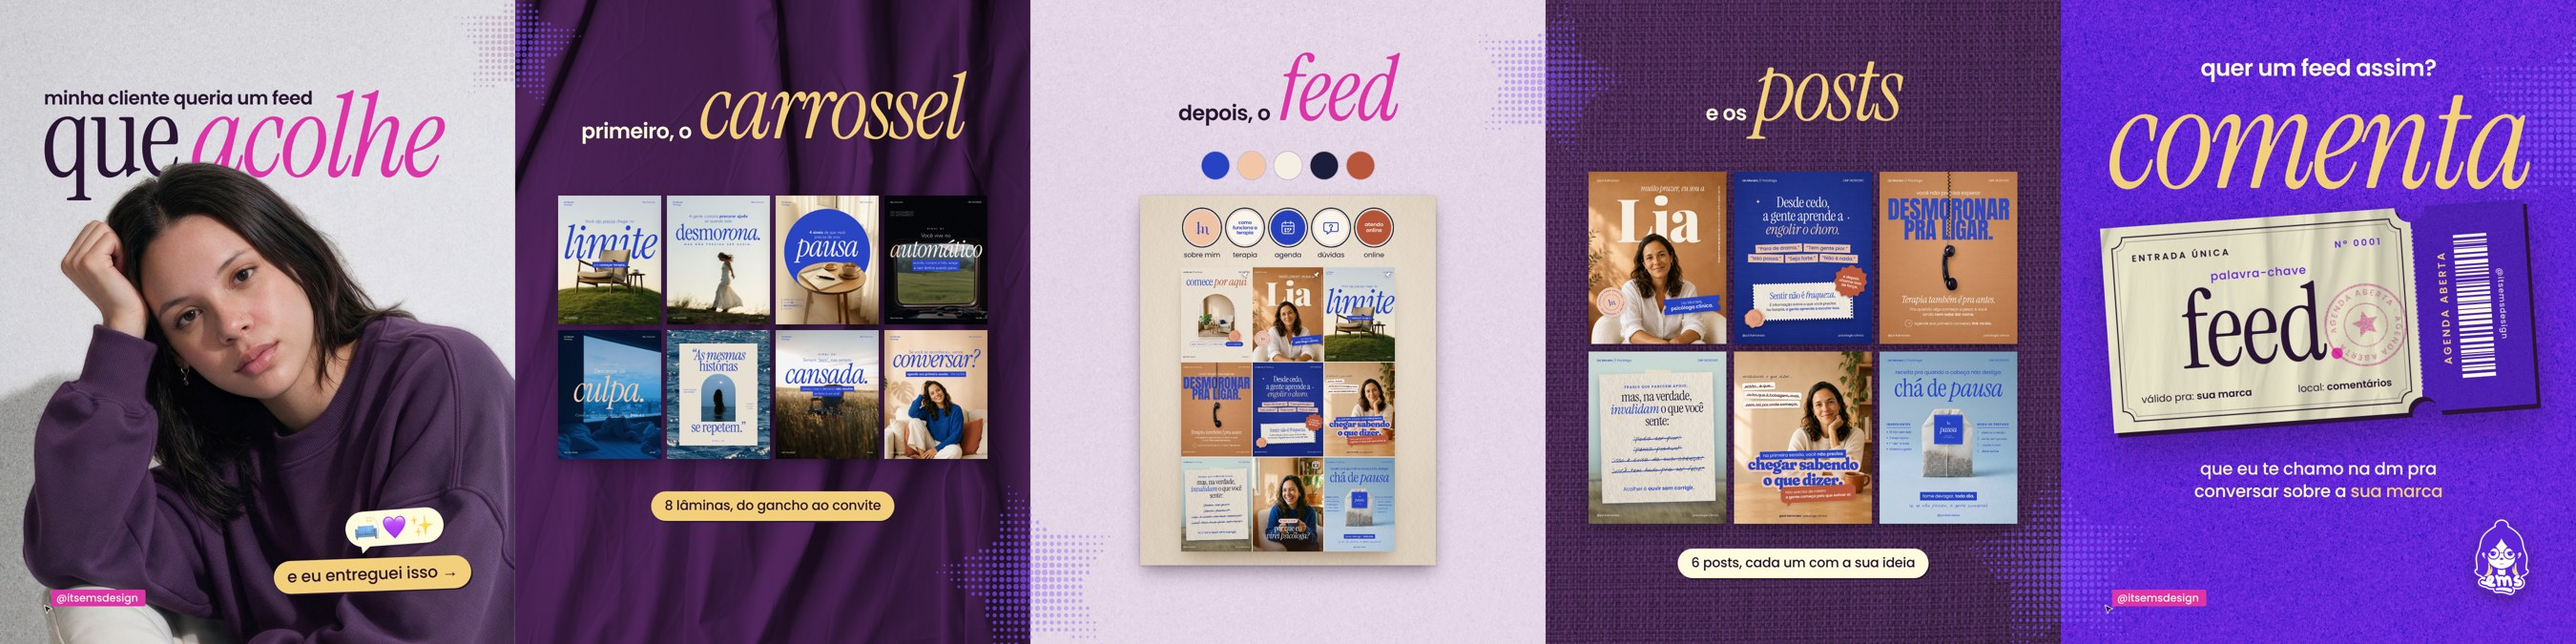
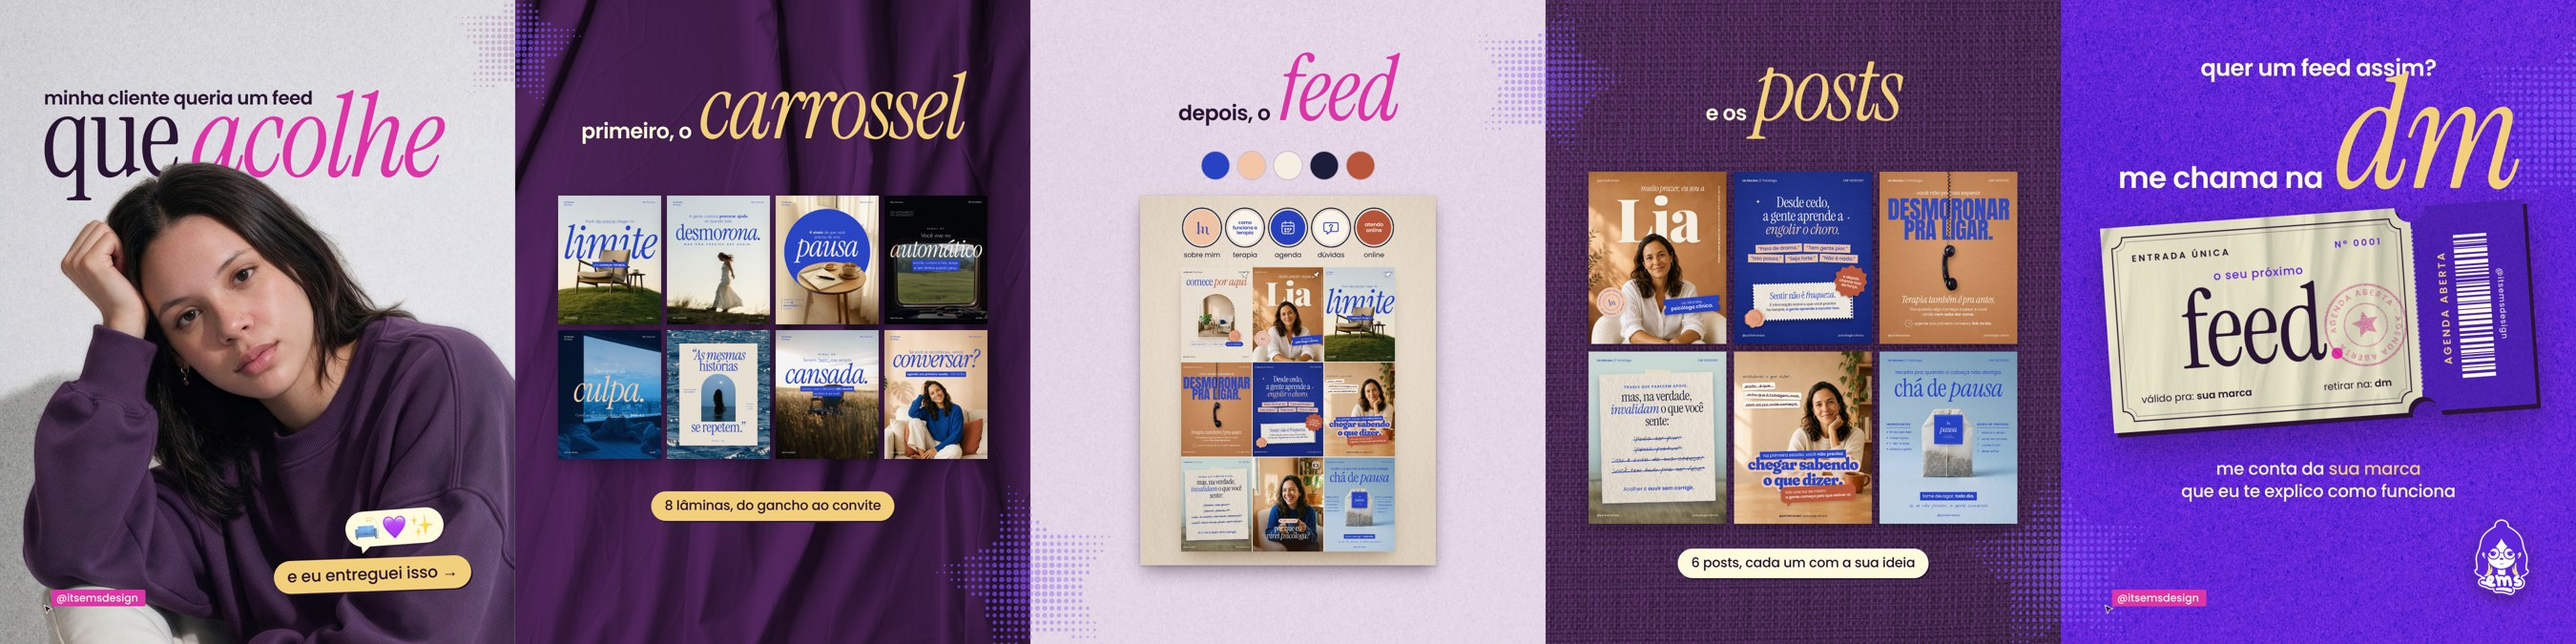
Case EMS: chamada troca 'comenta' por 'me chama na dm'
Claude-Session: https://claude.ai/code/session_01CmCiK8Gv7bd1khyaxwEQLc

diff --git a/psicologa-lia-moraes/case/case.html b/psicologa-lia-moraes/case/case.html
@@ -90,12 +90,12 @@ body{background:#555}
     <div class="abs" style="left:0;right:0;top:1150px;text-align:center"><span class="pil" style="background:var(--ivory);color:var(--tinta)">6 posts, cada um com a sua ideia</span></div>
   </div>
 
-  <!-- ===== 5 · CHAMADA: "quer um feed assim? comenta" + ingresso com a palavra-chave ===== -->
+  <!-- ===== 5 · CHAMADA: "quer um feed assim? me chama na dm" + ingresso ===== -->
   <div class="cont" style="left:4320px;color:var(--ivory)">
   
   
   <div class="abs lead" style="left:0;right:0;top:118px;text-align:center;font-size:48px">quer um feed assim?</div>
-  <div class="abs gig" style="left:0;right:0;top:172px;text-align:center;font-size:300px;color:var(--manteiga);z-index:3">comenta</div>
+  <div class="abs" style="left:0;right:0;top:150px;display:flex;justify-content:center;align-items:baseline;gap:24px;white-space:nowrap;z-index:3"><span class="lead" style="font-size:62px">me chama na</span><span class="gig" style="font-size:330px;color:var(--manteiga)">dm</span></div>
   <!-- ingresso -->
   <div class="abs" style="left:96px;top:448px;width:888px;height:430px;transform:rotate(-4deg);z-index:2;filter:drop-shadow(8px 10px 0 #2a1433) drop-shadow(0 30px 40px rgba(20,8,26,.35))">
     <div style="position:absolute;inset:0;-webkit-mask:radial-gradient(circle 32px at 650px 0,#0000 97%,#000) top/100% 51% no-repeat,radial-gradient(circle 32px at 650px 100%,#0000 97%,#000) bottom/100% 51% no-repeat">
@@ -114,9 +114,9 @@ body{background:#555}
     <div style="position:absolute;left:650px;top:46px;bottom:46px;border-left:3px dashed rgba(255,251,222,.55)"></div>
     <!-- conteúdo do corpo -->
     <div style="position:absolute;left:62px;width:526px;top:58px;display:flex;justify-content:space-between;font:600 19px/1 Poppins;letter-spacing:.22em;color:var(--tinta)"><span>ENTRADA ÚNICA</span><span style="color:var(--violeta)">Nº 0001</span></div>
-    <div style="position:absolute;left:0;width:650px;top:104px;text-align:center;font:500 24px/1 Poppins;letter-spacing:.06em;color:var(--violeta)">palavra-chave</div>
+    <div style="position:absolute;left:0;width:650px;top:104px;text-align:center;font:500 24px/1 Poppins;letter-spacing:.06em;color:var(--violeta)">o seu próximo</div>
     <div style="position:absolute;left:0;width:650px;top:128px;text-align:center;font-family:'Instrument Serif';font-size:224px;line-height:.9;letter-spacing:-.02em;color:var(--tinta)">feed<span style="color:var(--pink)">.</span></div>
-    <div style="position:absolute;left:62px;width:526px;bottom:56px;display:flex;justify-content:space-between;font:400 21px/1 Poppins;color:var(--tinta)"><span>válido pra: <b style="font-weight:600">sua marca</b></span><span>local: <b style="font-weight:600">comentários</b></span></div>
+    <div style="position:absolute;left:62px;width:526px;bottom:56px;display:flex;justify-content:space-between;font:400 21px/1 Poppins;color:var(--tinta)"><span>válido pra: <b style="font-weight:600">sua marca</b></span><span>retirar na: <b style="font-weight:600">dm</b></span></div>
     <!-- canhoto: código de barras + @ -->
     <div style="position:absolute;left:650px;right:0;top:0;bottom:0;display:flex;align-items:center;justify-content:center;gap:16px">
       <div style="writing-mode:vertical-rl;transform:rotate(180deg);font:600 22px/1 Poppins;letter-spacing:.2em;color:var(--manteiga)">AGENDA ABERTA</div>
@@ -132,7 +132,7 @@ body{background:#555}
       <path d="M100 66l9 20 22 2-16 15 5 21-20-11-20 11 5-21-16-15 22-2z" fill="#dd34a8"/>
     </svg>
   </div>
-  <div class="abs" style="left:0;right:0;top:960px;text-align:center;font:500 36px/1.3 Poppins;letter-spacing:-.015em">que eu te chamo na dm pra<br>conversar sobre a <span style="color:var(--manteiga)">sua marca</span></div>
+  <div class="abs" style="left:0;right:0;top:960px;text-align:center;font:500 36px/1.3 Poppins;letter-spacing:-.015em">me conta da <span style="color:var(--manteiga)">sua marca</span><br>que eu te explico como funciona</div>
   <img class="abs" src="img/selo-ems.png" style="right:96px;top:1086px;width:120px;filter:drop-shadow(0 10px 14px rgba(42,20,51,.45))">
   <span class="tag" style="left:108px;top:1236px;background:var(--pink)">@itsemsdesign<svg width="22" height="22" viewBox="0 0 24 24"><path d="M3 2 L21 10 L12.5 12.5 L9 21 Z" style="fill:#2a1433;stroke:#fffbde;stroke-width:1.5;stroke-linejoin:round"/></svg></span>
 </div>
